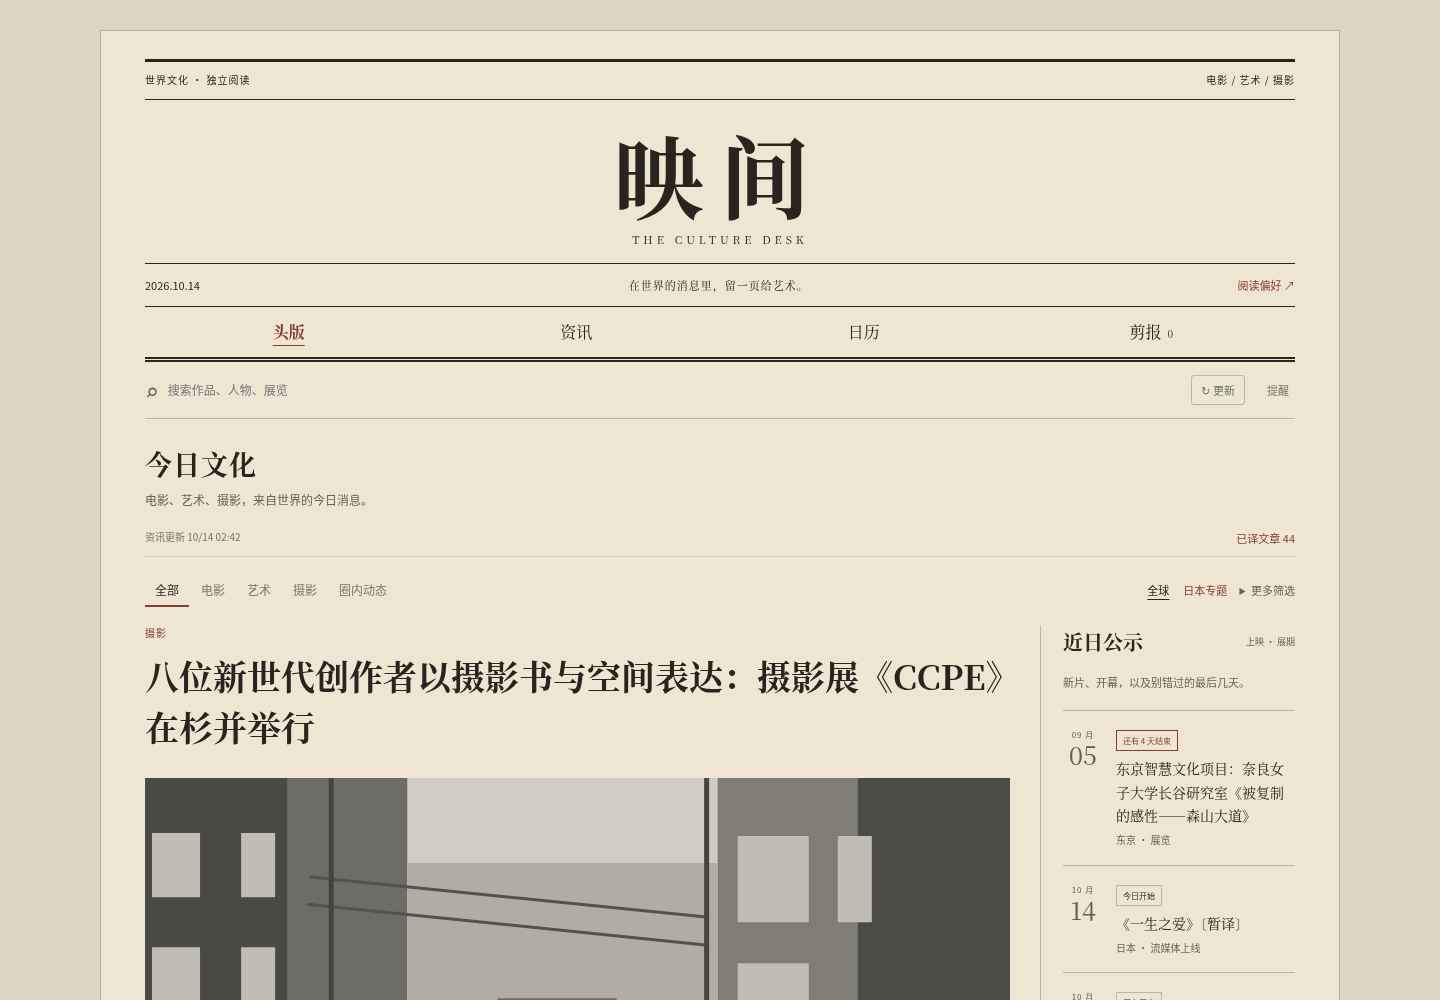
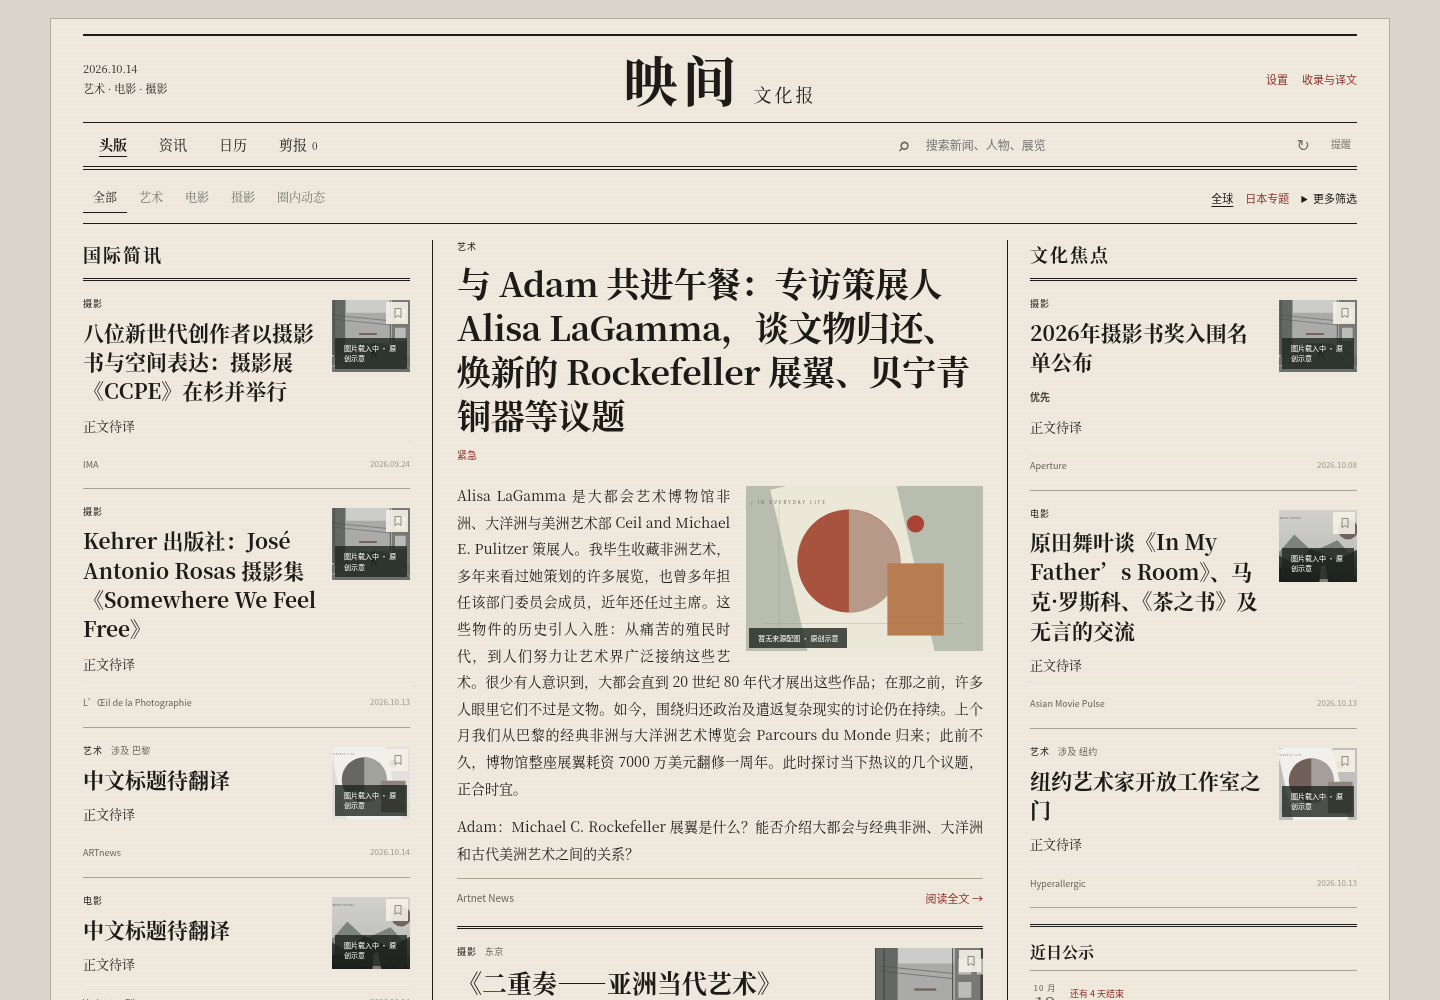
T034 Record verified public news broadsheet and backend results

diff --git a/docs/HANDOFF.md b/docs/HANDOFF.md
@@ -219,3 +219,5 @@ T033旧报纸版：四主导航、偏好/覆盖页保留、更多筛选折叠、
 T034：按公共艺术新闻查询/阅览平台定位重做报版，紧凑报头/竖线三栏/头条次条简讯，介绍隐藏与开发处理说明折叠；原文/译文/查询/分页/收藏/日历保留。CultureUI v1新增frontpage；公共浏览器包不再假定article_text必有，使用CultureCore.sourceText。原文档案data/live.json未改，536资料（最新自动新增1）、198活动、26源、44已译/49原生中文/441待译/2缺正文。T028仍doing。优化实测见BACKEND_OPTIMIZATION，65Python+23JS=88检查通过；尚需公开验收记录。
 
 发布前已合并自动采集9a5ce82：最新537资料/198活动/26源，44已译/49原生中文/442待译/2缺正文；重新逐条核验全部537原文、译文及搜索文本等价。优化对比使用此前同一536条样本，不能把新增数据混成性能变化。
+
+公开实现913ffb9；CI https://github.com/k1ryulong6-source/ART-NEWS/actions/runs/38527095026 与Pages https://github.com/k1ryulong6-source/ART-NEWS/actions/runs/38527094941 全部success（88检查）。真实公开网站Chromium1440/768/390：537条完整分页/全量旧稿搜索/折叠筛选/三处阅读入口/原文切换/收藏状态持久/六页长文无溢出或脚本错误；首条标题400px内、介绍不渲染、v1 frontpage接口和HTTP单文件运行通过。 T034已验收done。界面定位以公共艺术新闻检索和阅览为主，保留独立theme/UI接口；不要恢复私人介绍/黄纸卡片或冗长宣传。T028仍doing，442待译，本轮没有翻译API调用。
